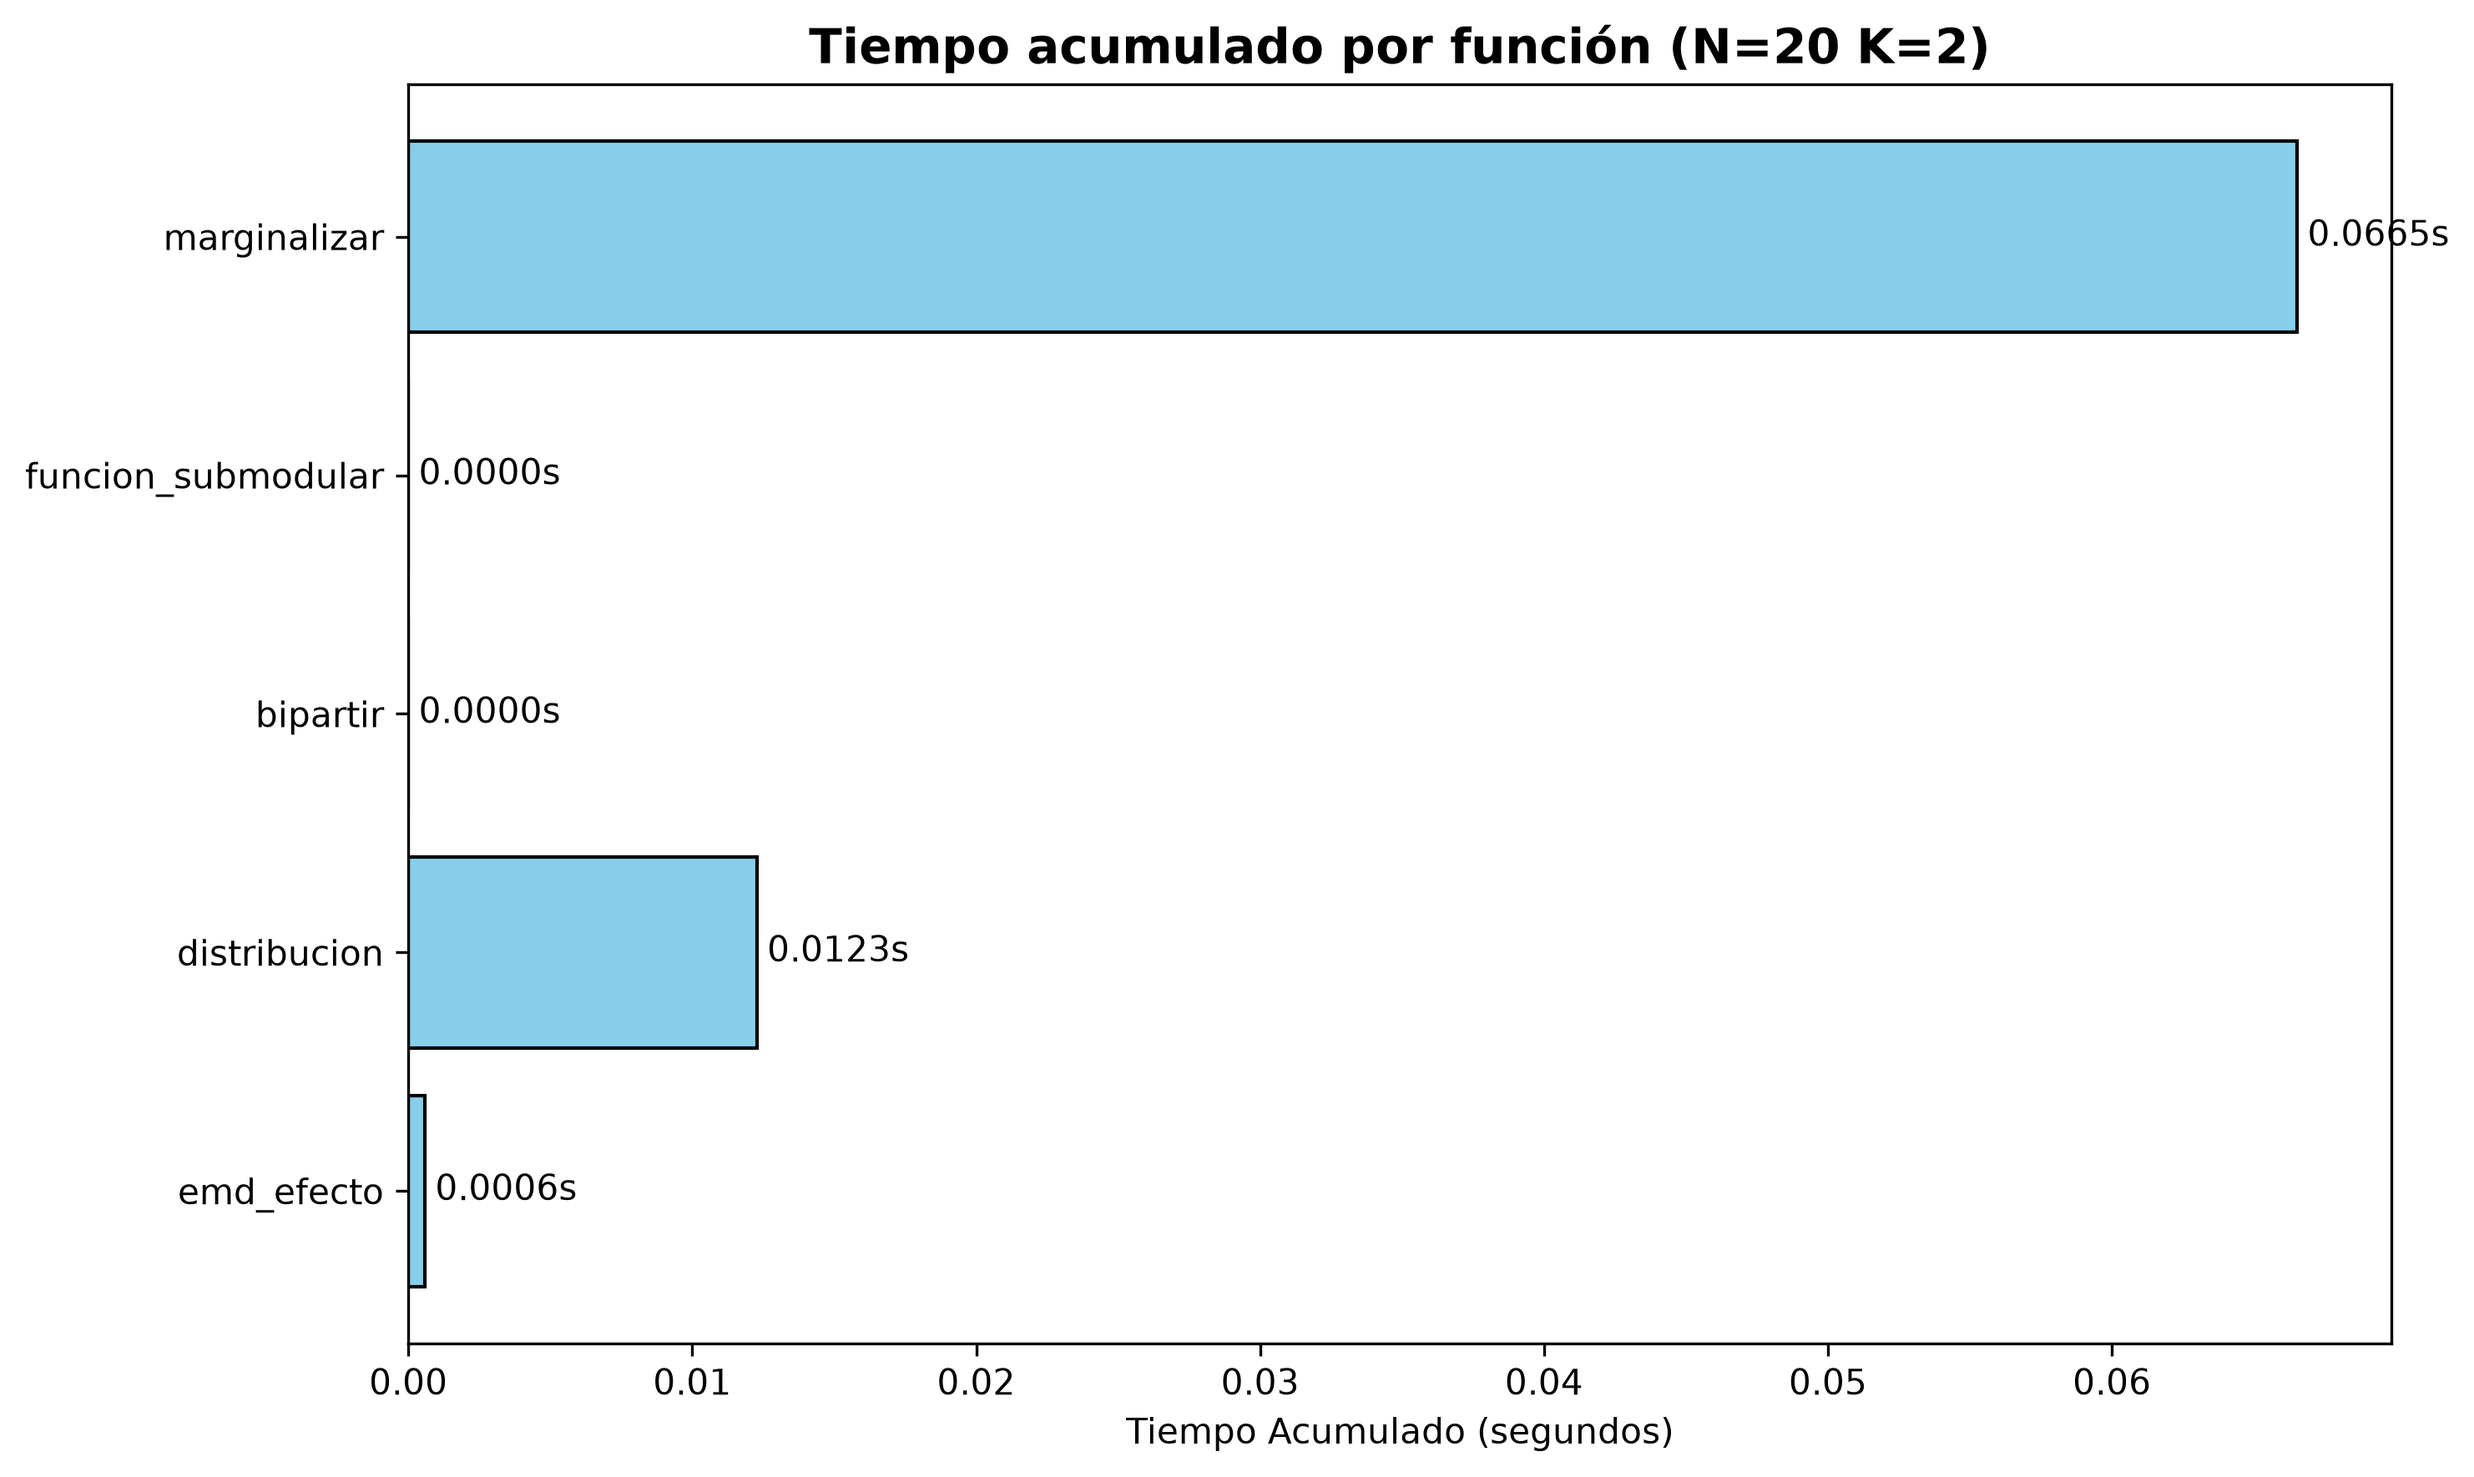
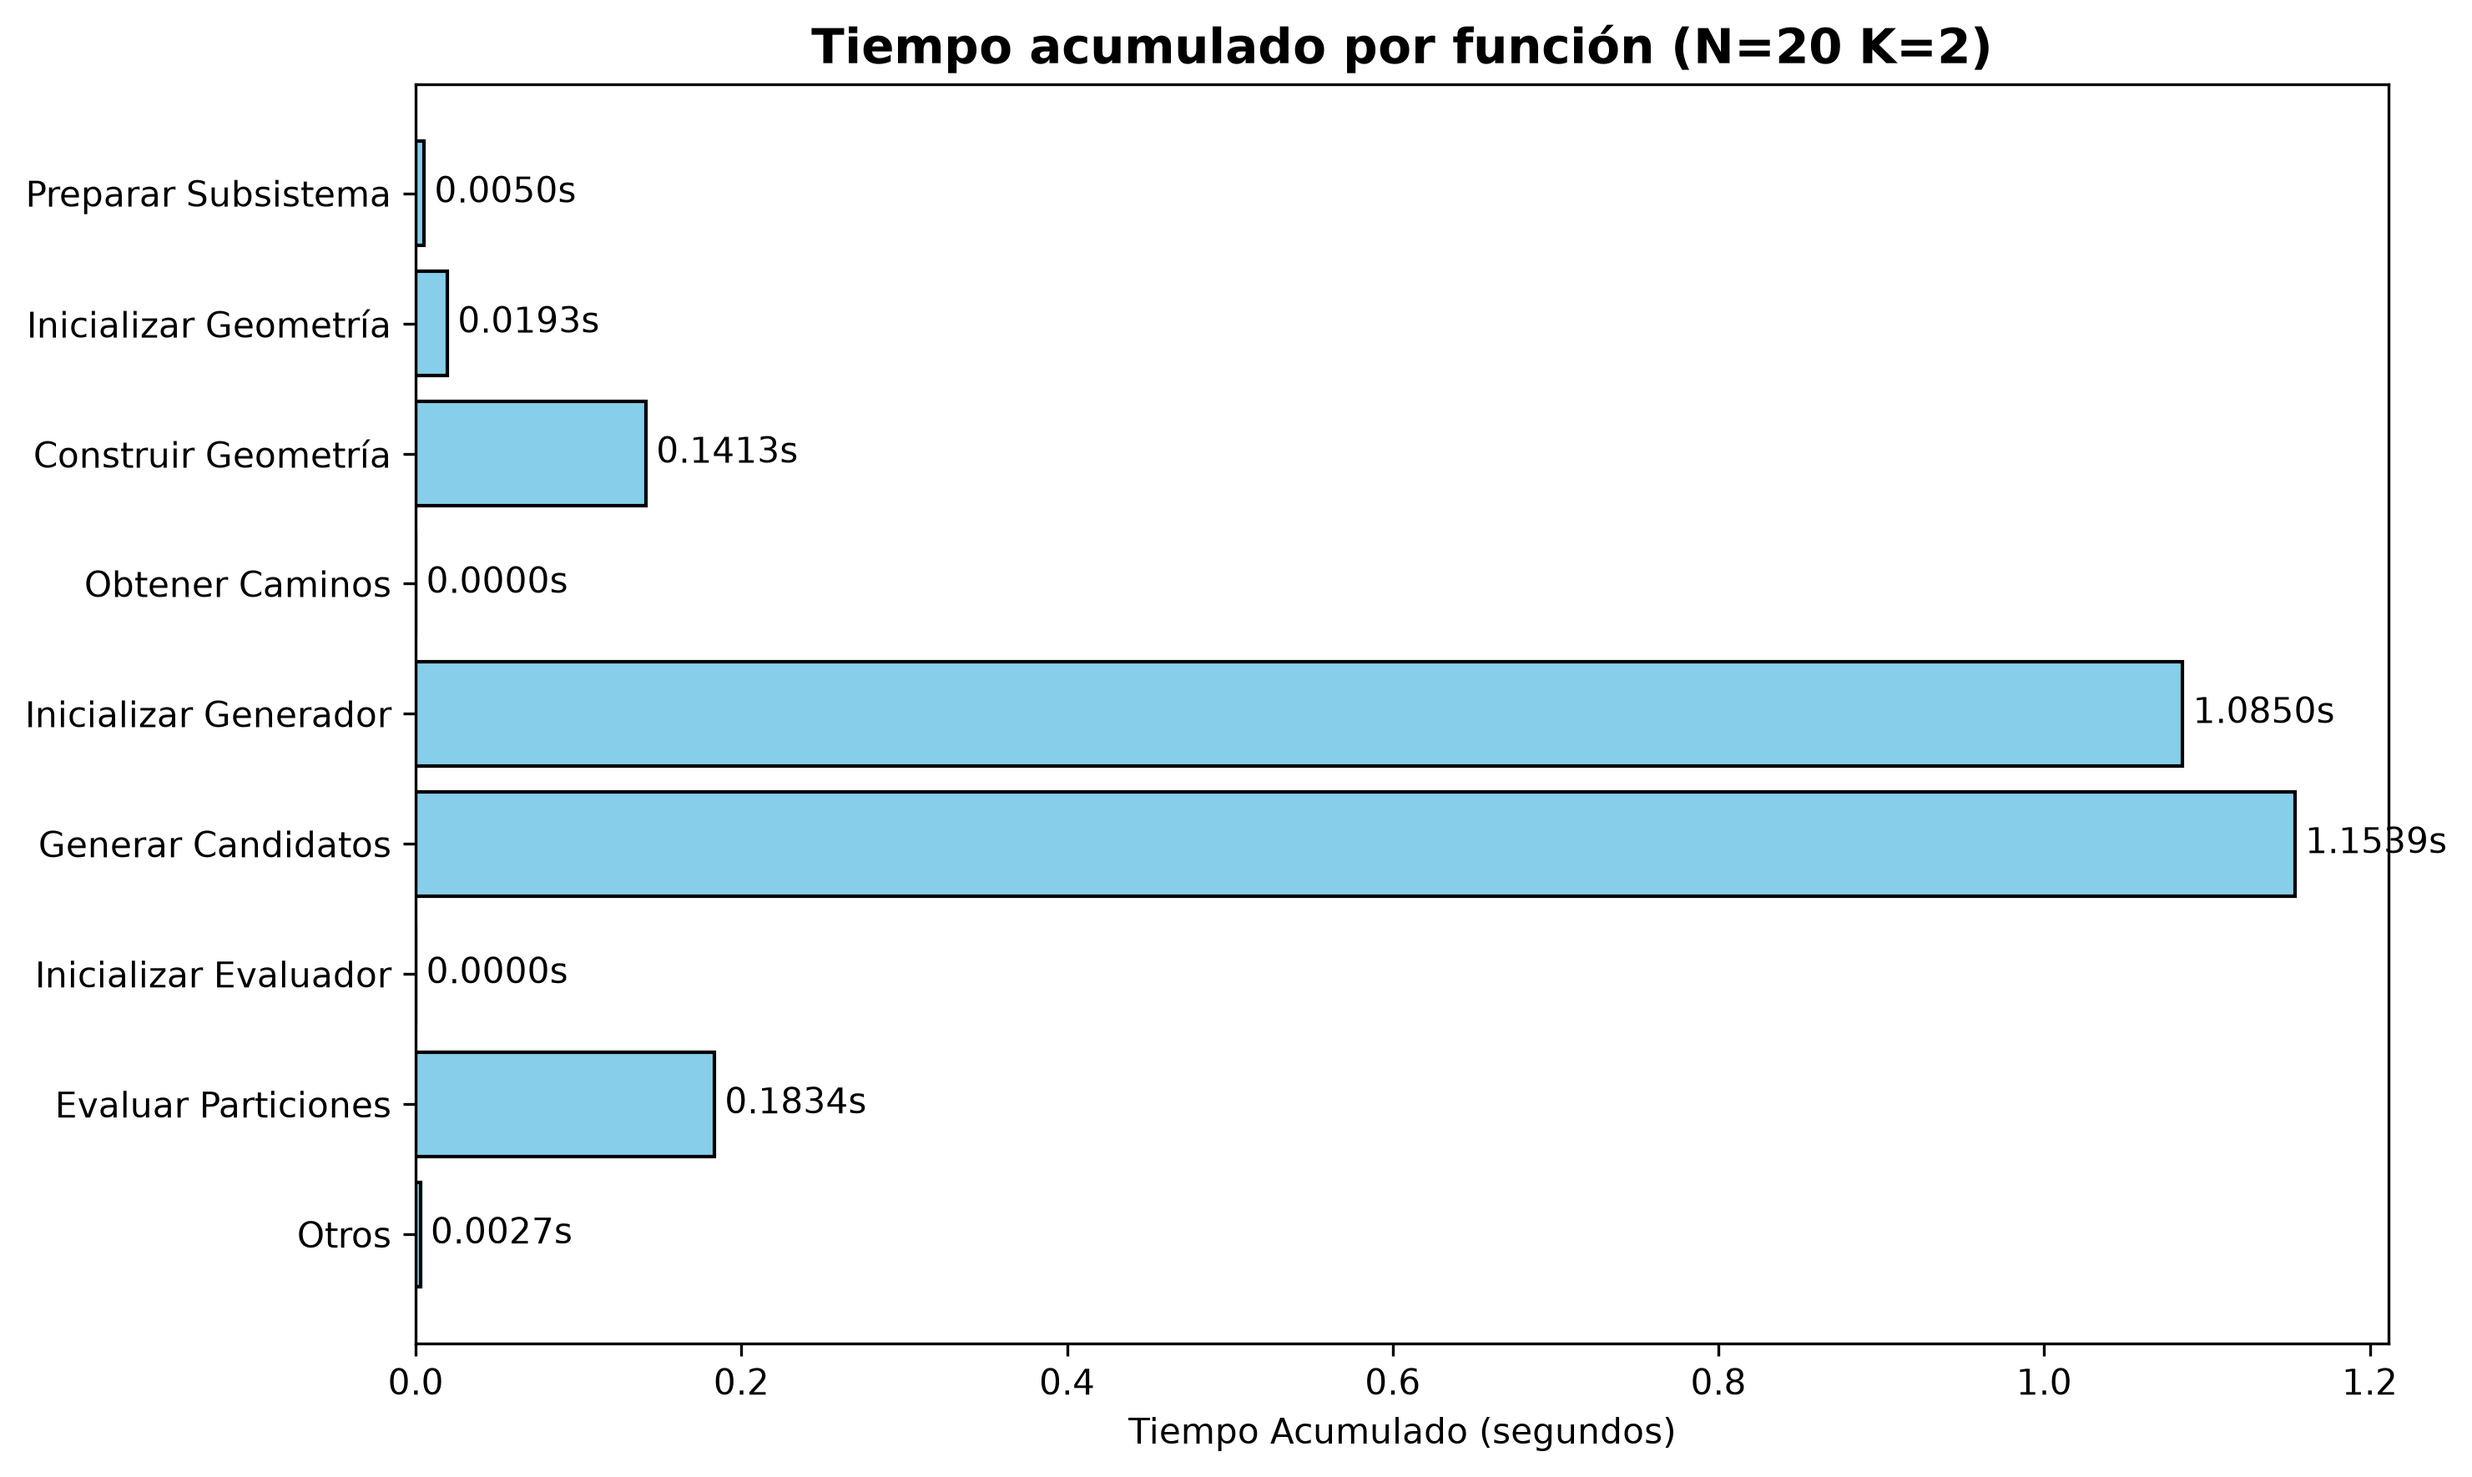
Correcion de errores en consola

diff --git a/QNodes/src/main_force.py b/QNodes/src/main_force.py
@@ -2,7 +2,7 @@ from src.controllers.manager import Manager
 from src.strategies.force import BruteForceK
 from src.models.base.application import aplicacion
 
-N = 8
+N = 15
 VERSION = "A"
 K = 2
 
